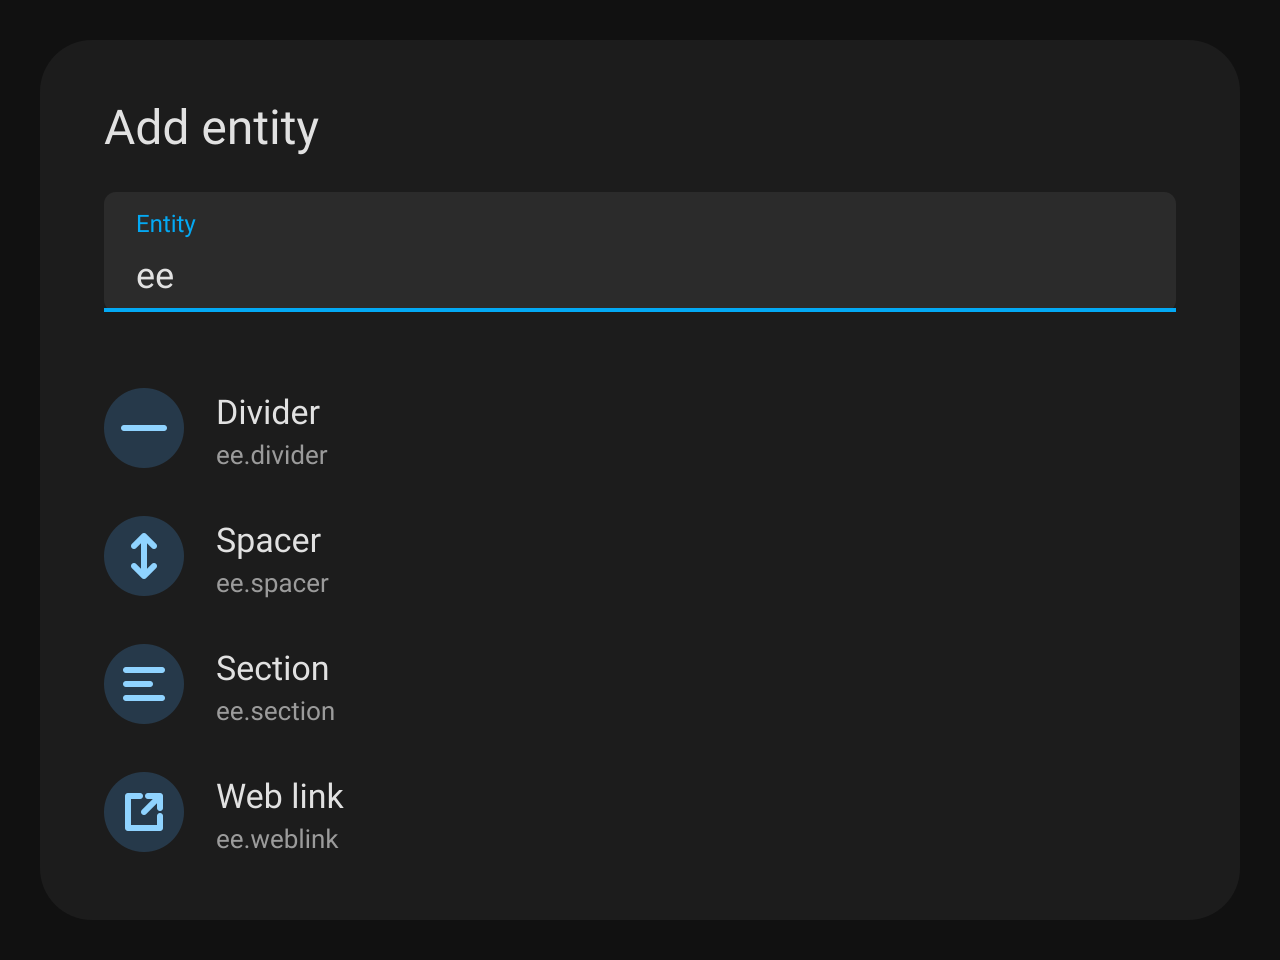
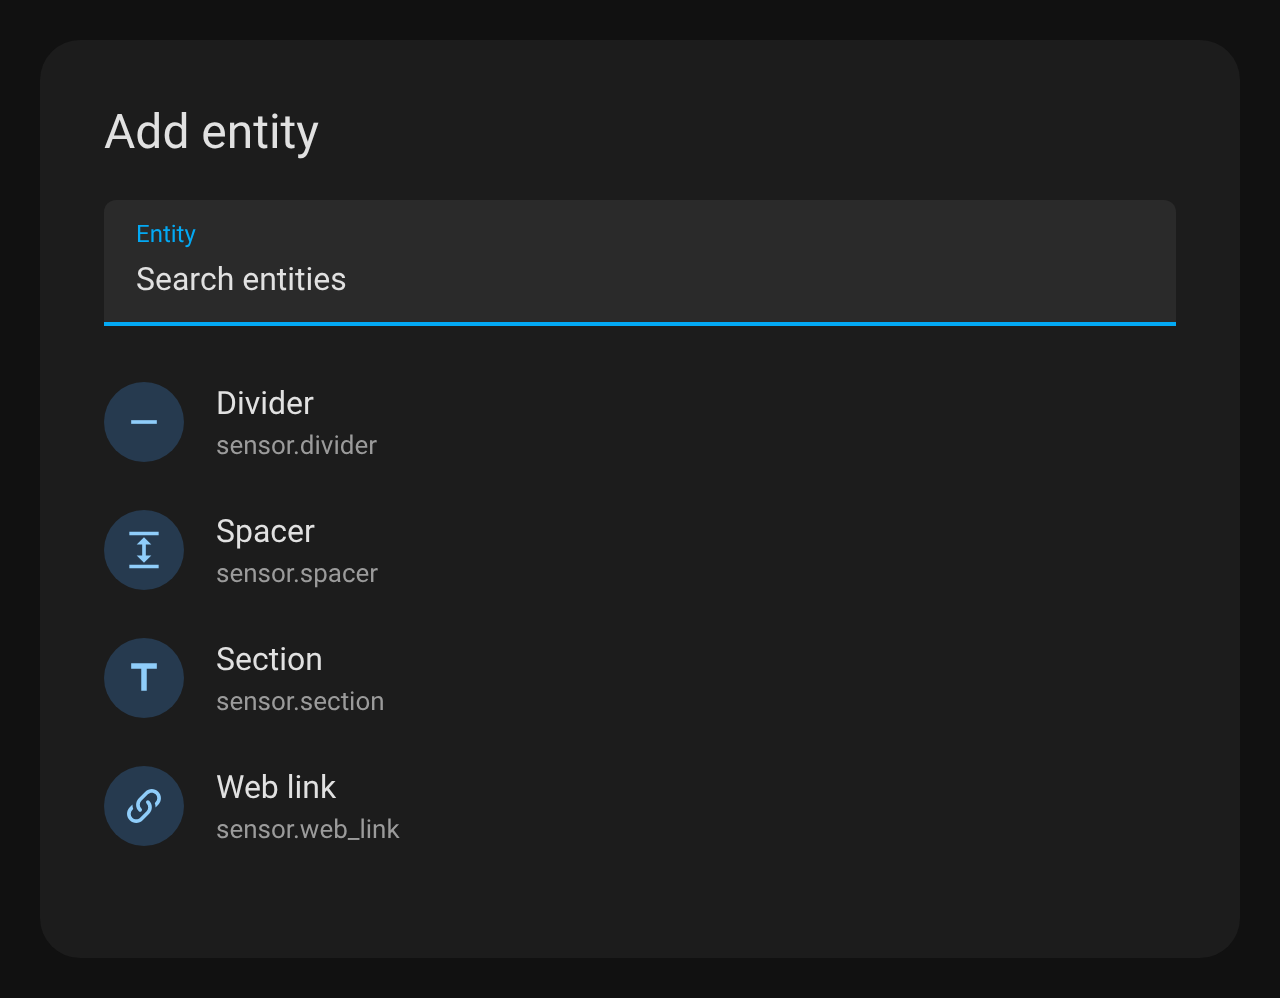
Update README images for the new entity IDs
Shows the sensor.* IDs in the picker and shrinks both images to about half size.

diff --git a/README.md b/README.md
@@ -15,7 +15,7 @@ as writing this in YAML:
 
 ## What you get
 
-![The Entity Extras entities in the entity picker](images/picker.png)
+<img src="images/picker.png" alt="The Entity Extras entities in the entity picker" width="400">
 
 | Entity | Same as | Set up on the row |
 | --- | --- | --- |
@@ -30,7 +30,7 @@ one of these IDs, Home Assistant adds `_2` to the new one.
 
 Here is how they look in an Entities card:
 
-![A divider, section, spacer and web link in an Entities card](images/result.png)
+<img src="images/result.png" alt="A divider, section, spacer and web link in an Entities card" width="420">
 
 ## Install
 
